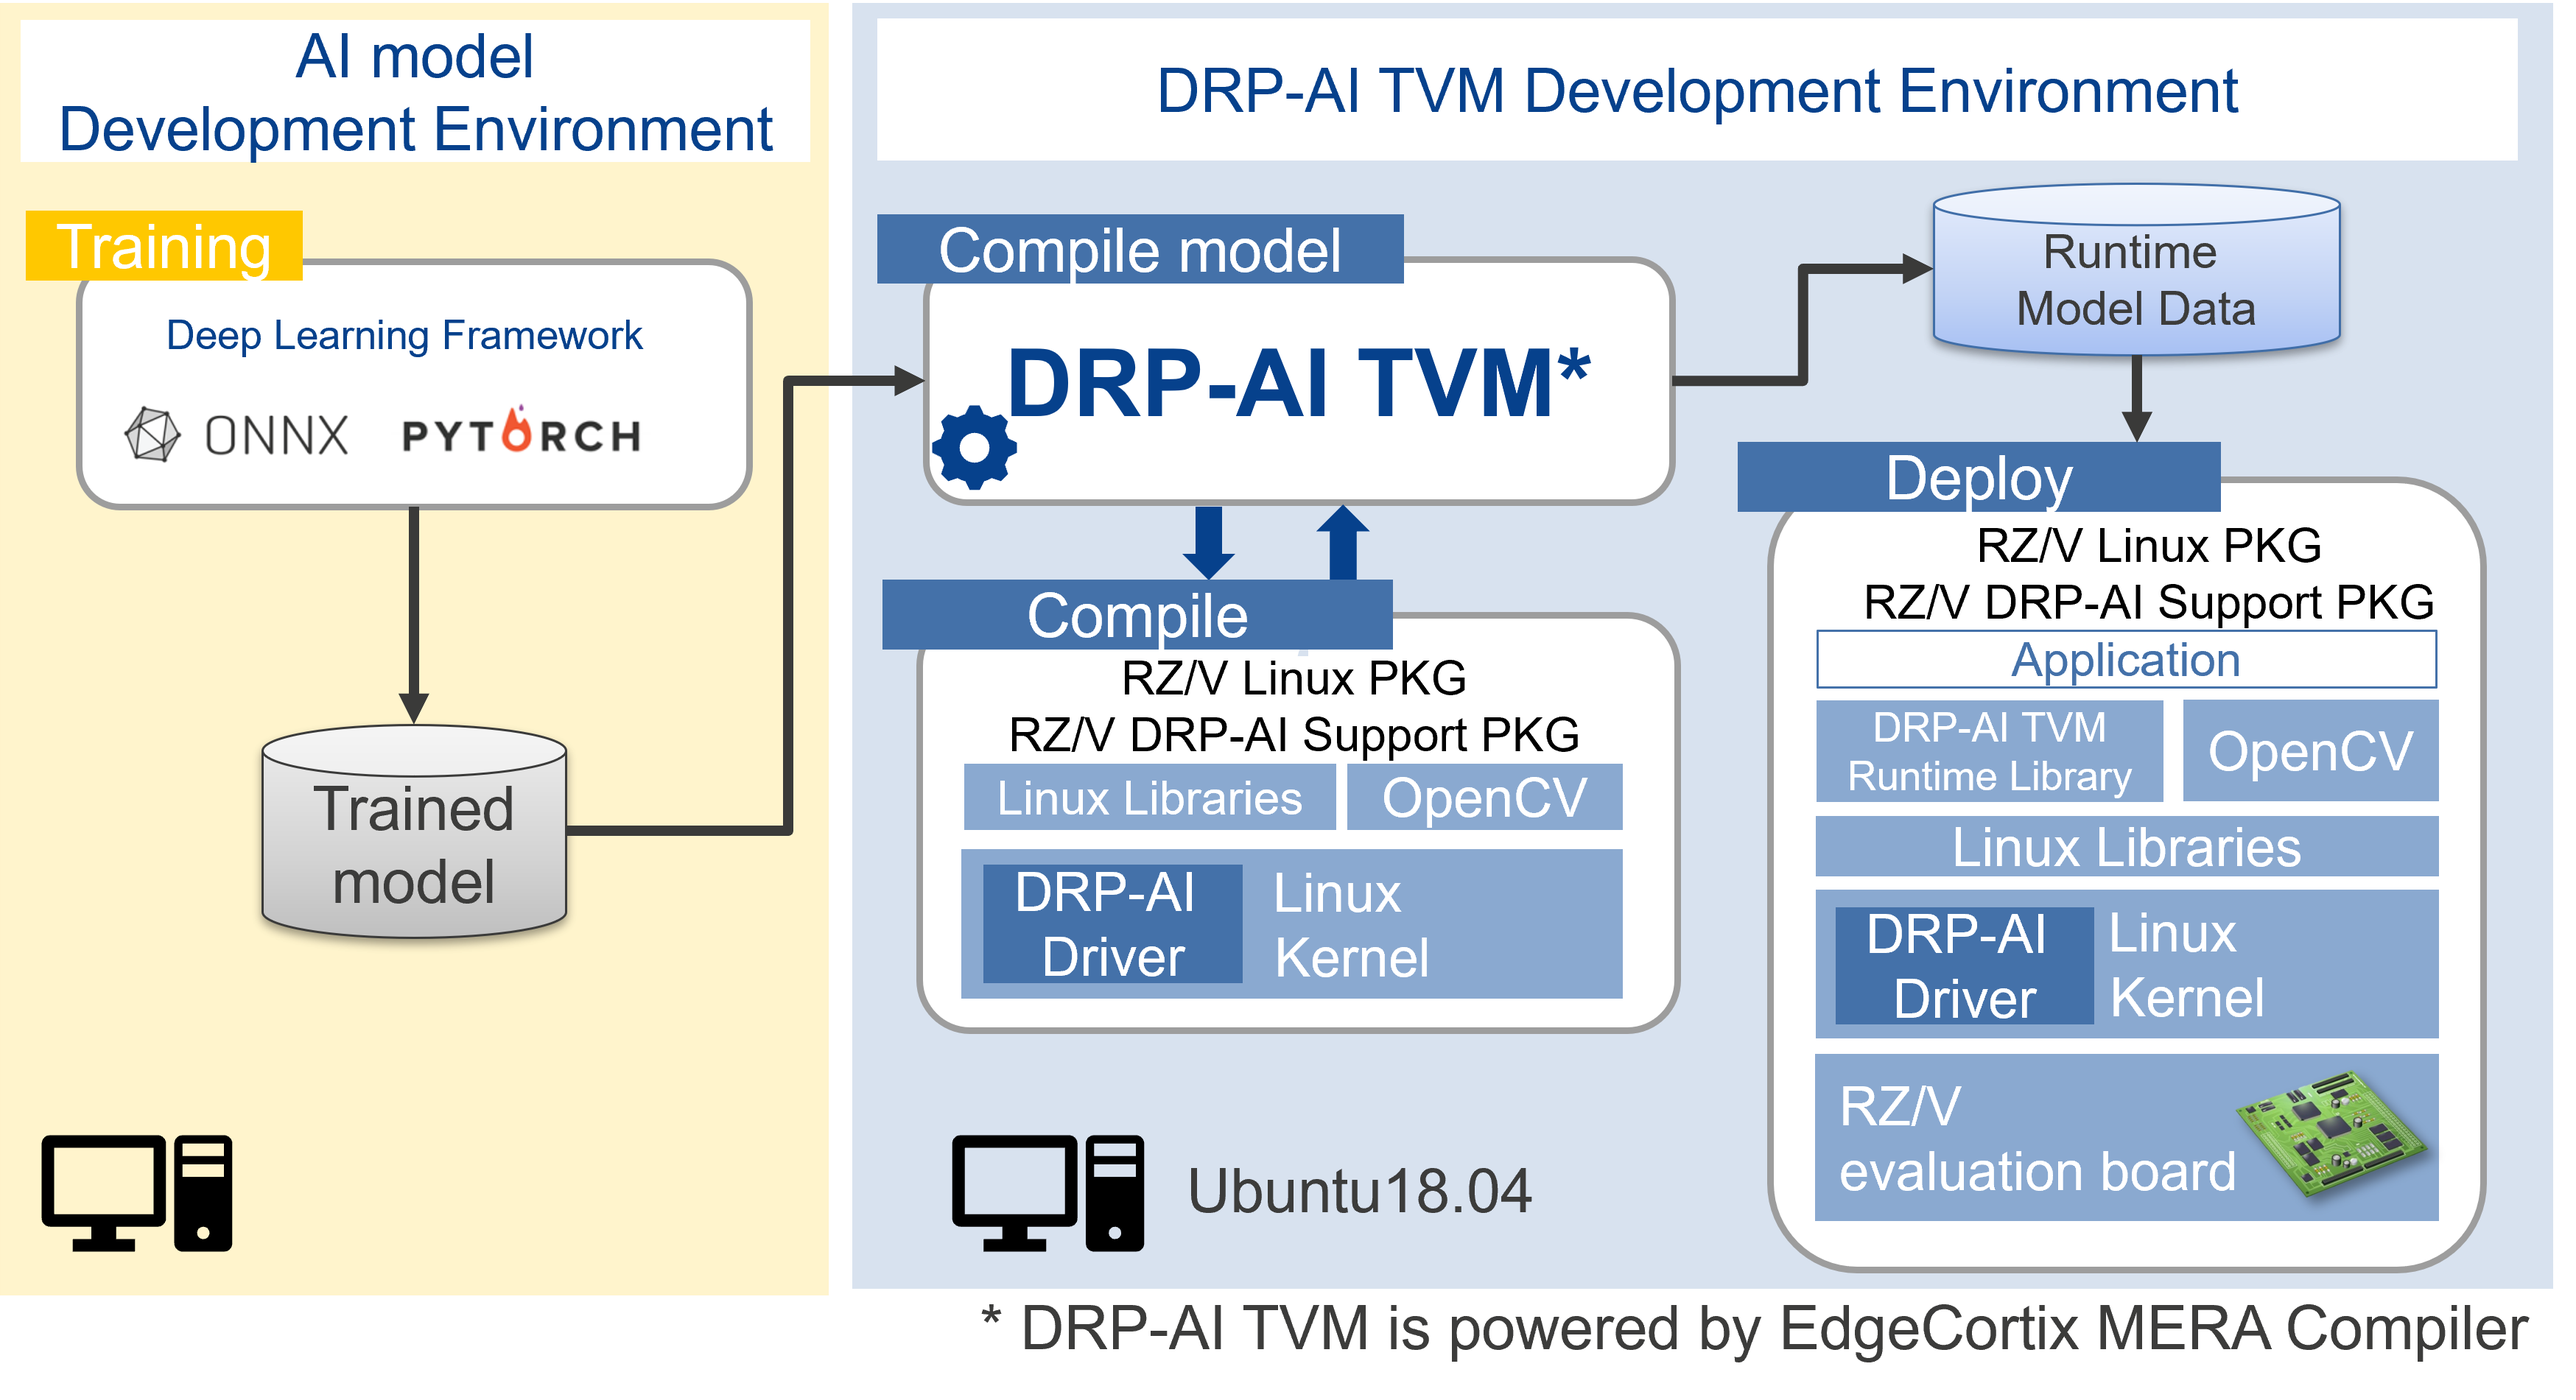
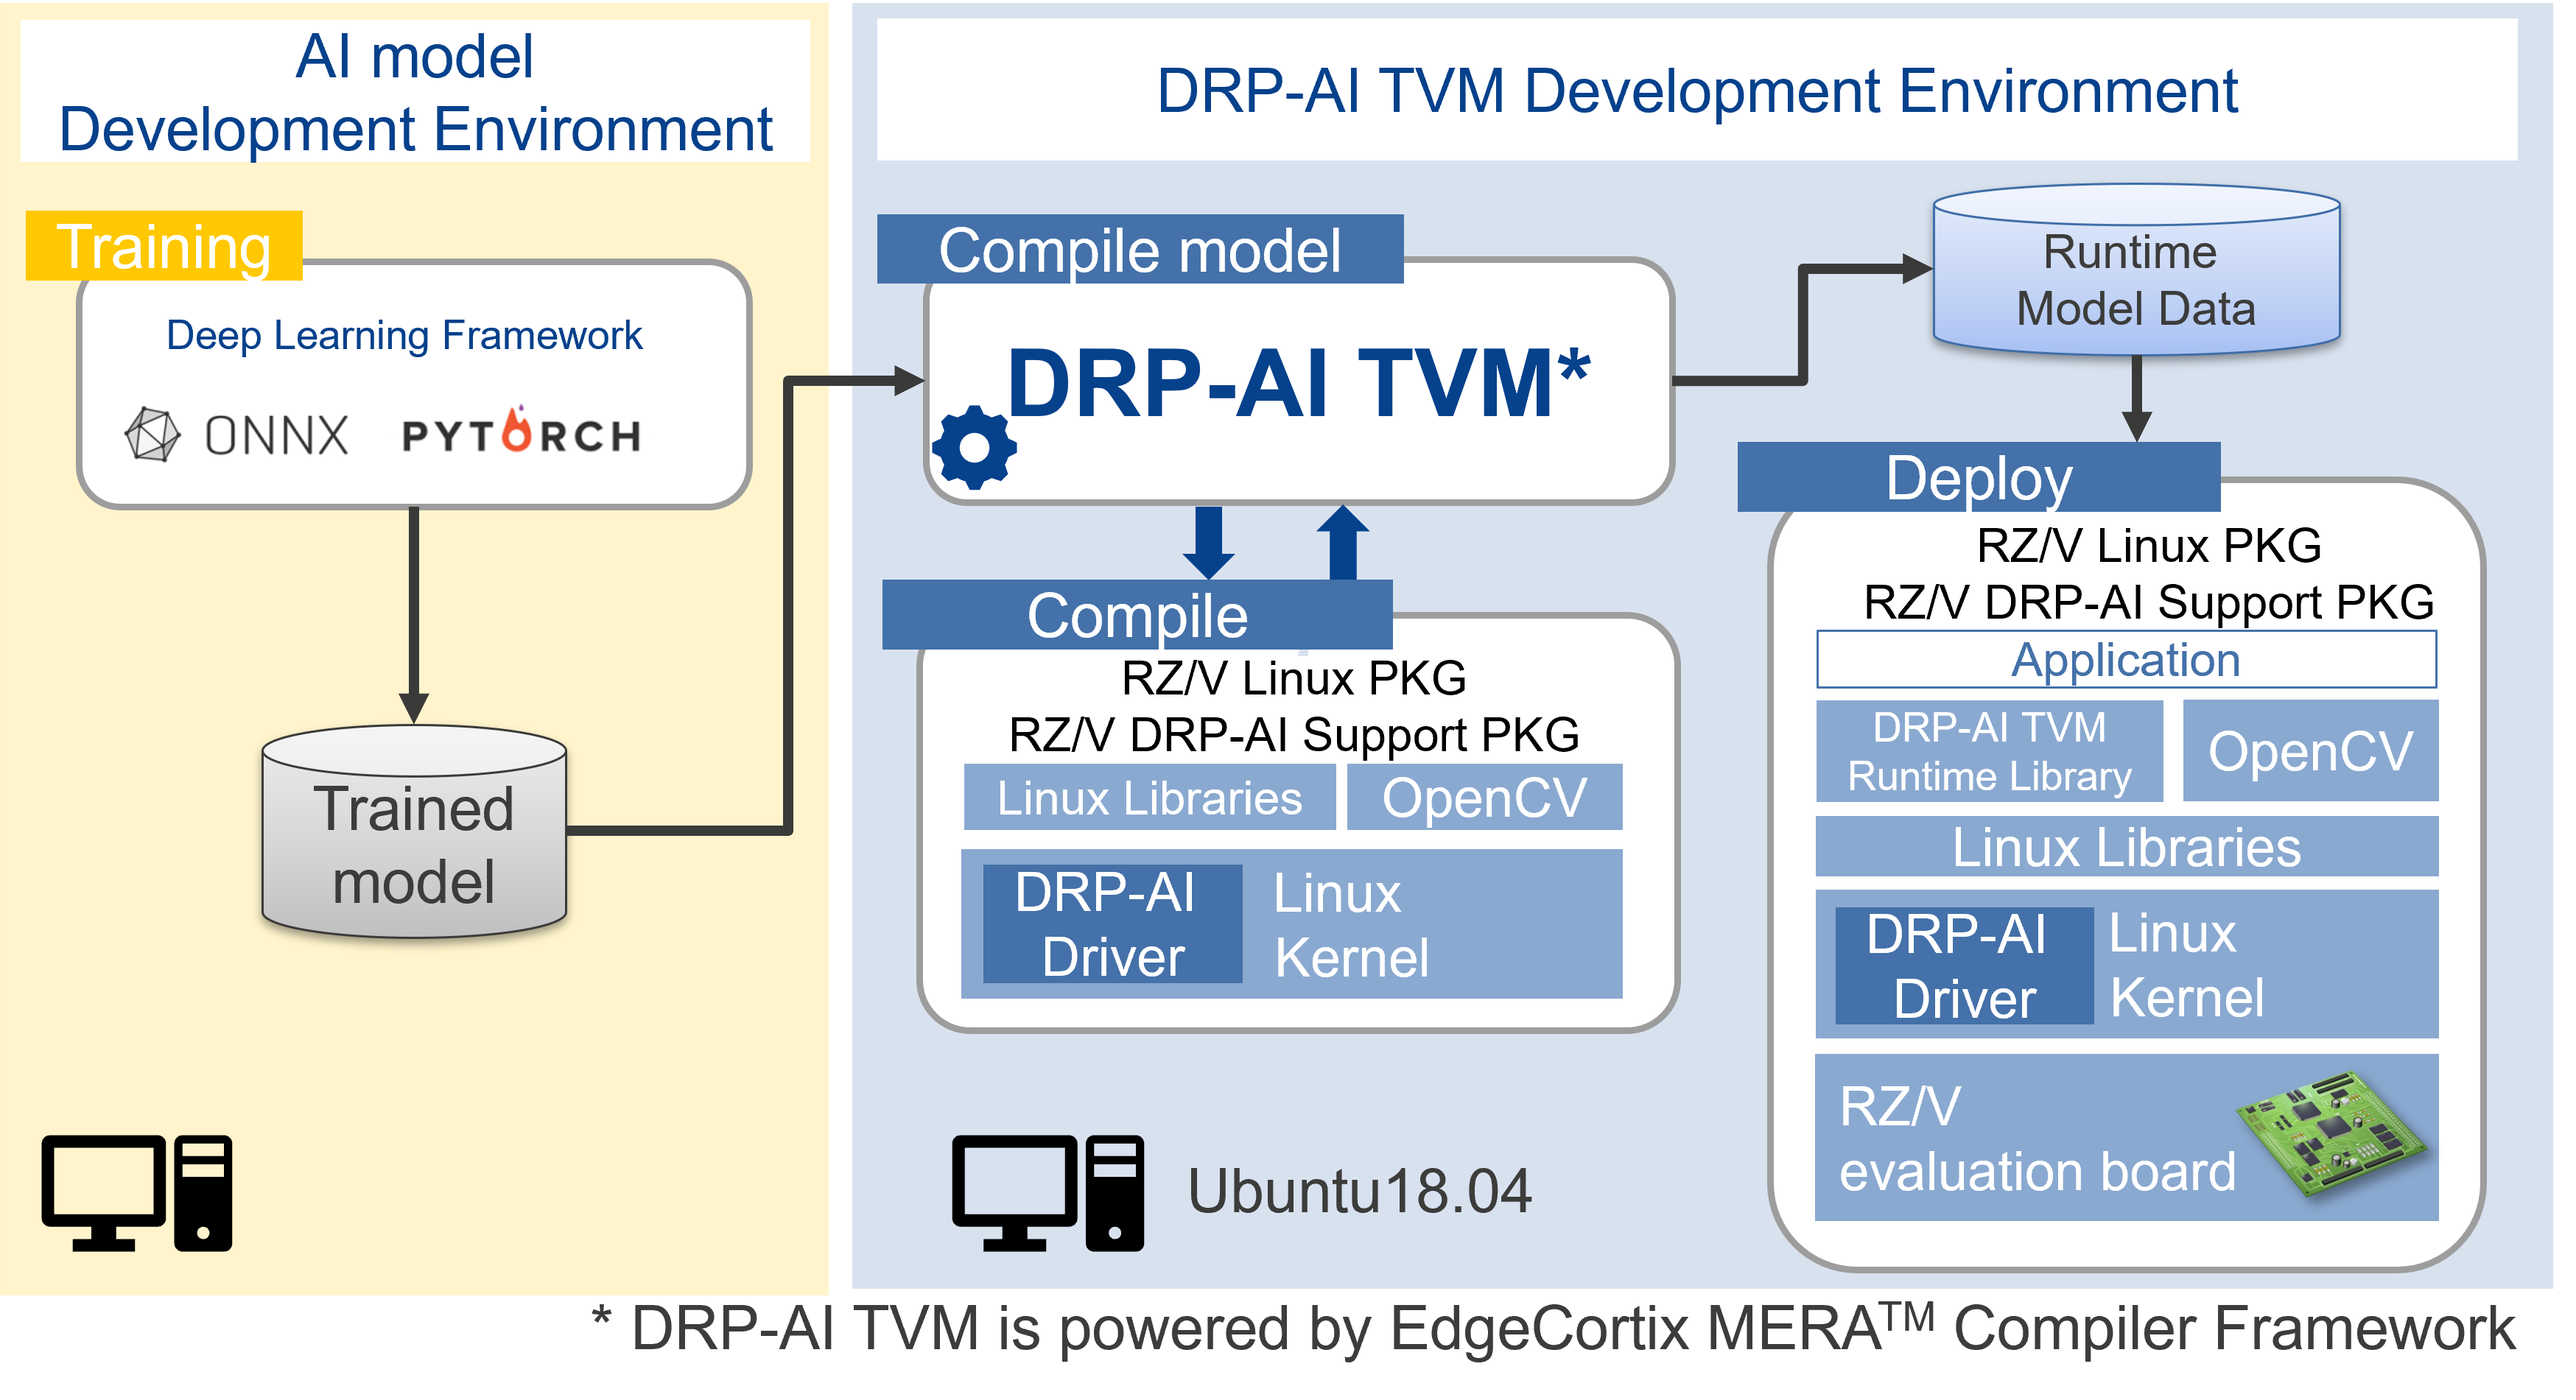
Correct title, etc.,

Changed region(s): [[0.2182, 0.9311, 0.9974, 0.9932]]

diff --git a/apps/tutorial_app.cpp b/apps/tutorial_app.cpp
@@ -2,7 +2,7 @@
  * Original Code (C) Copyright Edgecortix, Inc. 2022
  * Modified Code (C) Copyright Renesas Electronics Corporation 2022
  *　
- *  *1 DRP-AI TVM is powered by EdgeCortix MERA Compiler
+ *  *1 DRP-AI TVM is powered by EdgeCortix MERA™ Compiler Framework.
  *
  * Licensed to the Apache Software Foundation (ASF) under one
  * or more contributor license agreements.  See the NOTICE file

diff --git a/tutorials/compile_onnx_model.py b/tutorials/compile_onnx_model.py
@@ -2,7 +2,7 @@
 #  Original code (C) Copyright EdgeCortix, Inc. 2022
 #  Modified Portion (C) Copyright Renesas Electronics Corporation 2022
 #
-#   *1 DRP-AI TVM is powered by EdgeCortix MERA Compiler
+#   *1 DRP-AI TVM is powered by EdgeCortix MERA™ Compiler Framework.
 # 
 # Licensed to the Apache Software Foundation (ASF) under one
 # or more contributor license agreements.  See the NOTICE file

diff --git a/tutorials/compile_pytorch_model.py b/tutorials/compile_pytorch_model.py
@@ -2,7 +2,7 @@
 #  Original code (C) Copyright EdgeCortix, Inc. 2022
 #  Modified Portion (C) Copyright Renesas Electronics Corporation 2022
 #
-#   *1 DRP-AI TVM is powered by EdgeCortix MERA Compiler
+#   *1 DRP-AI TVM is powered by EdgeCortix MERA™ Compiler Framework.
 # 
 # Licensed to the Apache Software Foundation (ASF) under one
 # or more contributor license agreements.  See the NOTICE file

diff --git a/README.md b/README.md
@@ -1,4 +1,4 @@
-# Extension package of TVM Deep Learning Complier for renesas DRP-AI accelerators powered by MERA&trade; compiler stack   
+# Extension package of TVM Deep Learning Complier for Renesas DRP-AI accelerators powered by EdgeCortix MERA&trade;
 
 [TVM Documentation](https://tvm.apache.org/docs) |
 [TVM Community](https://tvm.apache.org/community) |
@@ -145,5 +145,5 @@ It includes the sample to solve specific problems, i.e.;
 ----
 For any enquiries, please contact Renesas.  
 
-[^1]: DRP-AI TVM is powered by EdgeCortix MERA Compiler
+[^1]: DRP-AI TVM is powered by EdgeCortix MERA™ Compiler Framework.
 

diff --git a/apps/README.md b/apps/README.md
@@ -173,4 +173,4 @@ SRC_URI[sha256sum] = "b884300d26a14961a076fbebc762a39831cb75f92bed5ccf9836345b45
 ### 3. Bitbake
 Run the `bitbake` command as explained in the DRP-AI Support Package.  
 
-[^1]: DRP-AI TVM is powered by EdgeCortix MERA Compiler
+[^1]: DRP-AI TVM is powered by EdgeCortix MERA™ Compiler Framework.

diff --git a/how-to/README.md b/how-to/README.md
@@ -4,4 +4,4 @@ Currently under planning.
 
 We are planning to list up the solution to specific problems related to DRP-AI TVM[^1].
 
-[^1]: DRP-AI TVM is powered by EdgeCortix MERA Compiler
+[^1]: DRP-AI TVM is powered by EdgeCortix MERA™ Compiler Framework.

diff --git a/tutorials/README.md b/tutorials/README.md
@@ -208,4 +208,4 @@ Example :
 <img src=./img/concat_option.jpg width=400>  
 
 
-[*1]: DRP-AI TVM is powered by EdgeCortix MERA Compiler
+[*1]: DRP-AI TVM is powered by EdgeCortix MERA™ Compiler Framework.
